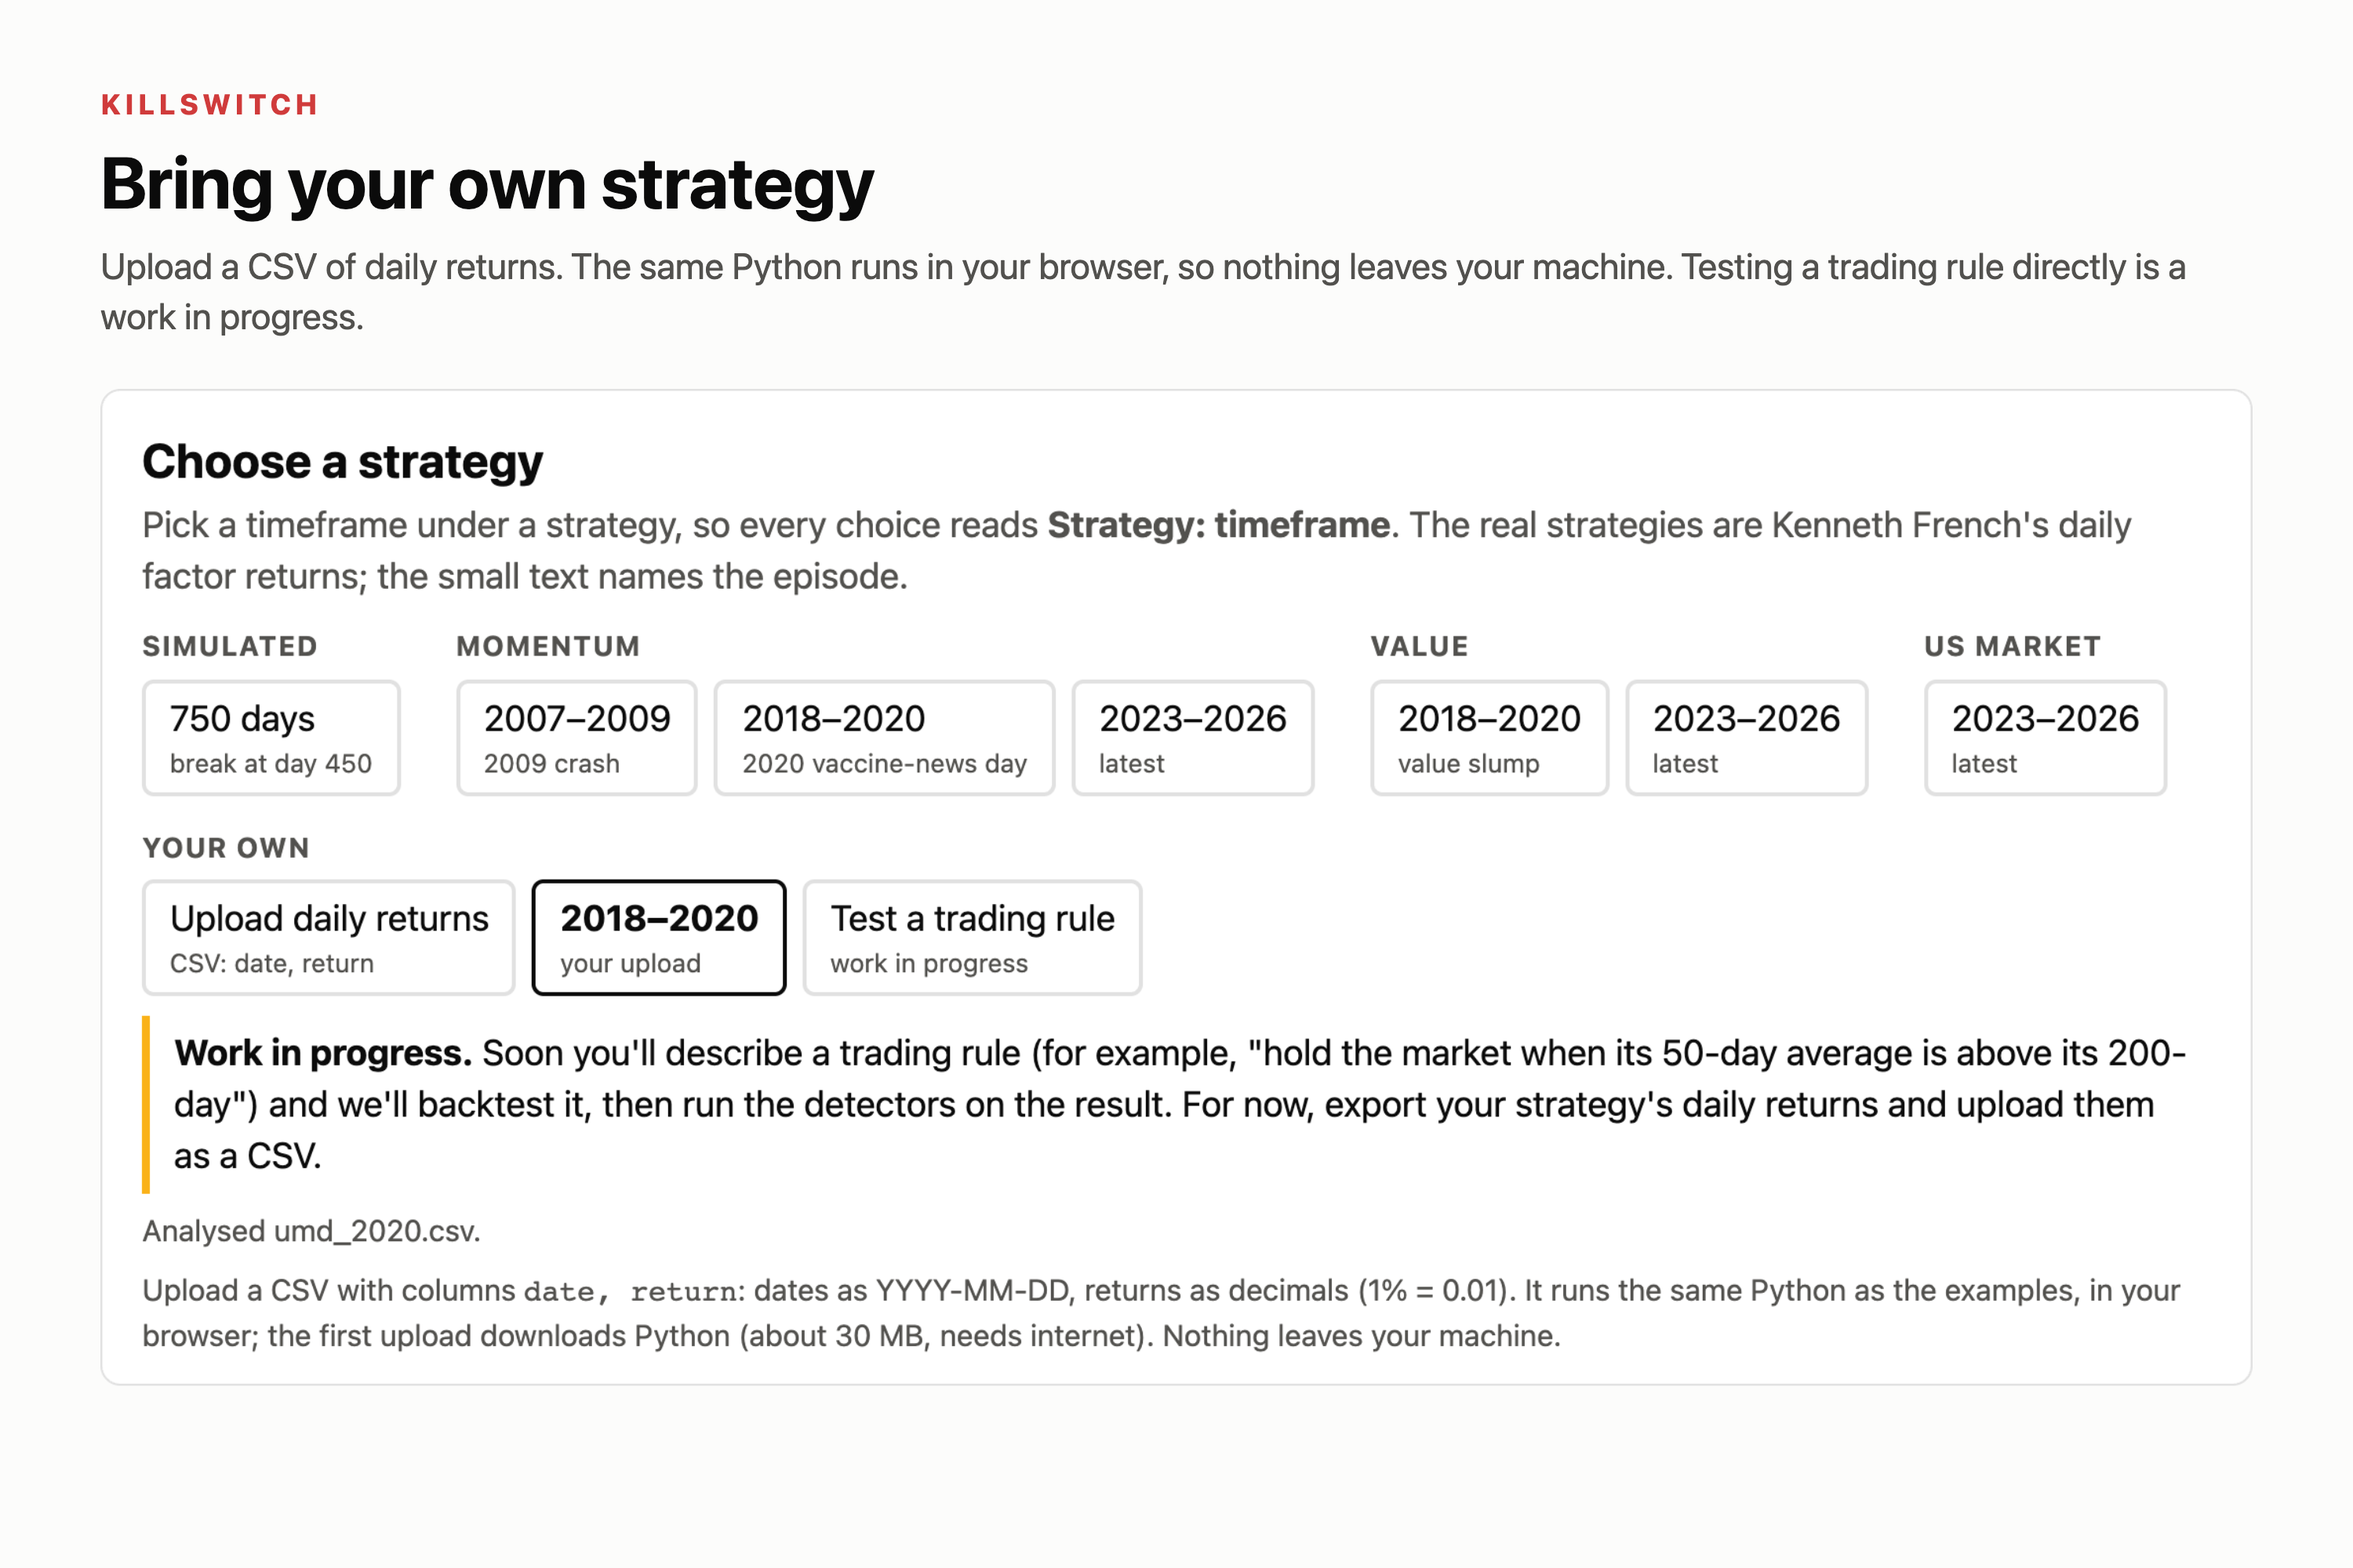
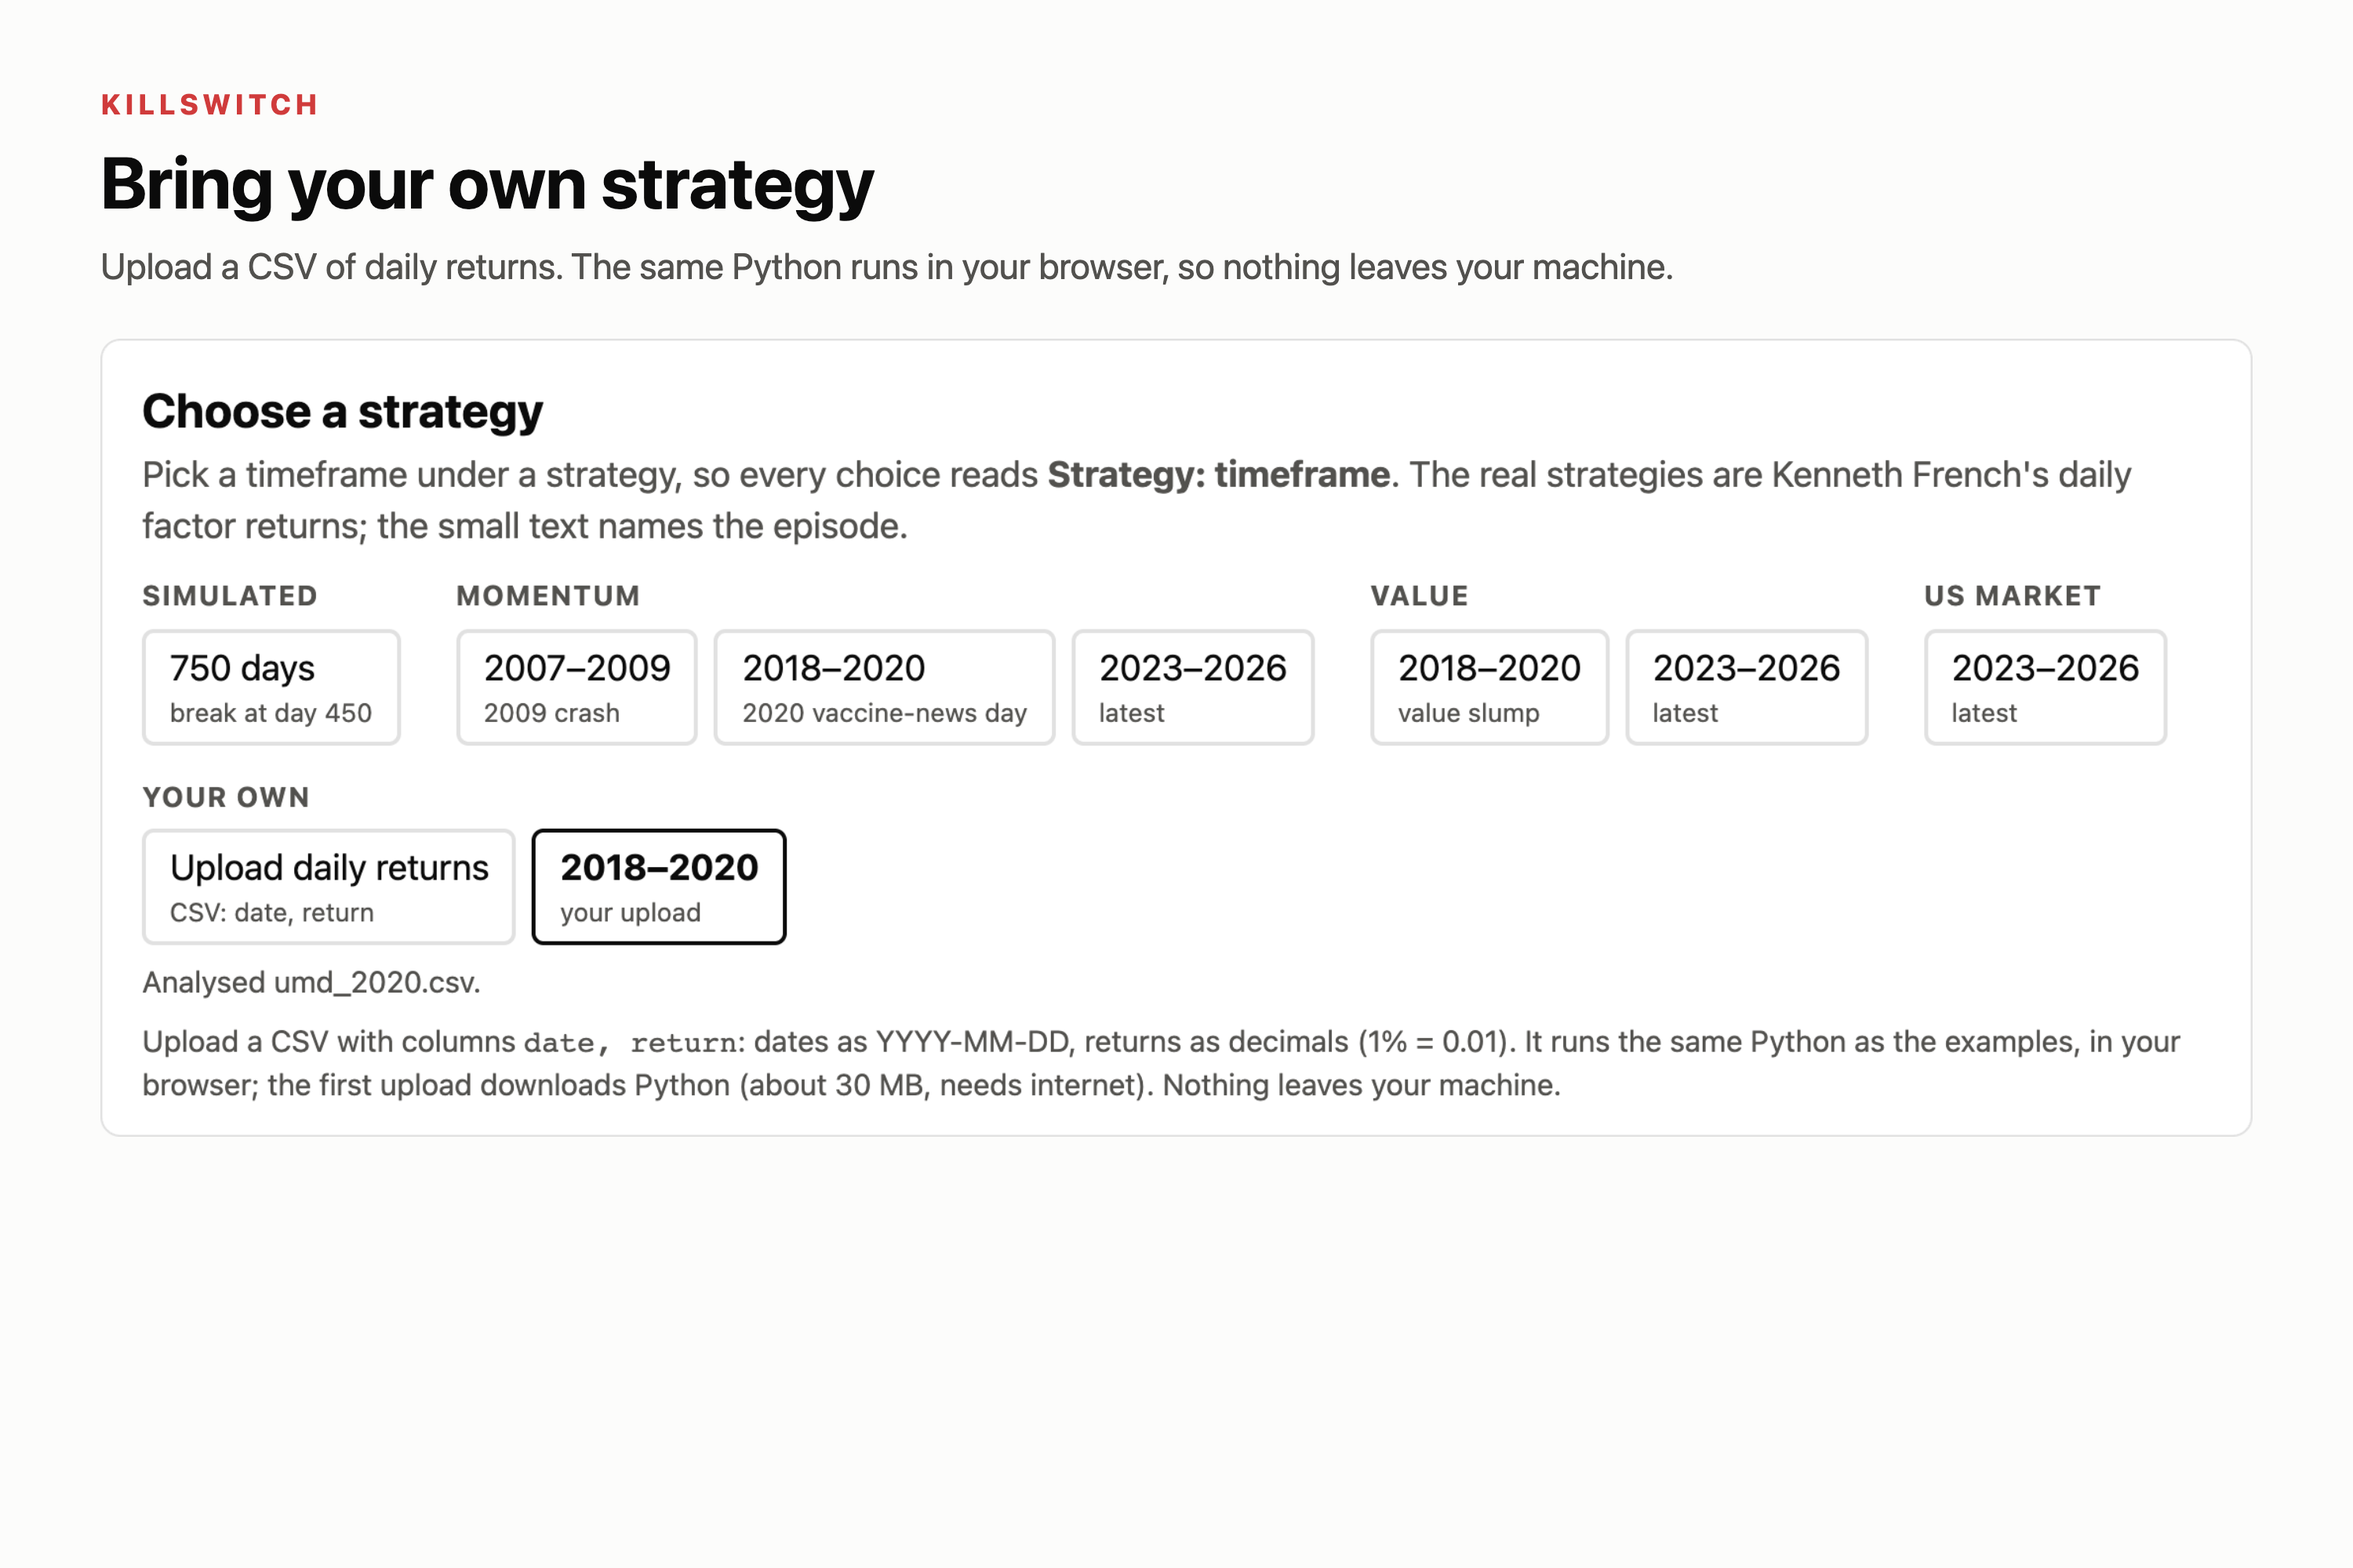
Remove the work-in-progress trading rule button
The detectors only need daily returns, so a rule tester adds no analysis.
Drop the button, its note style, its README mentions, and retake gallery card 07.

diff --git a/web/src/App.jsx b/web/src/App.jsx
@@ -80,13 +80,12 @@ export default function App() {
   );
 }
 
-// The "Your own" picker row: upload daily returns (works), or test a trading rule (work in progress).
+// The "Your own" picker row: upload a CSV of daily returns.
 function OwnStrategy({ uploaded, selected, onSelect, onResult }) {
   const worker = useRef(null);
   const [status, setStatus] = useState(null);
   const [errors, setErrors] = useState([]);
   const [busy, setBusy] = useState(false);
-  const [showWip, setShowWip] = useState(false);
 
   const run = async (file) => {
     if (!file) return;
@@ -120,18 +119,8 @@ function OwnStrategy({ uploaded, selected, onSelect, onResult }) {
             <span className="btn-note">your upload</span>
           </button>
         )}
-        <button aria-expanded={showWip} onClick={() => setShowWip((v) => !v)}>
-          <span>Test a trading rule</span><span className="btn-note">work in progress</span>
-        </button>
       </div>
       <div className="picker-wide">
-        {showWip && (
-          <p className="wip" role="status">
-            <b>Work in progress.</b> Soon you'll describe a trading rule (for example, "hold the market when its 50-day
-            average is above its 200-day") and we'll backtest it, then run the detectors on the result. For now, export
-            your strategy's daily returns and upload them as a CSV.
-          </p>
-        )}
         {status && <p className="note" role="status">{status}</p>}
         {errors.length > 0 && (
           <div className="problems" role="alert">

diff --git a/web/src/styles.css b/web/src/styles.css
@@ -78,5 +78,4 @@ tr.best td { font-weight: 700; }
 .seg .btn[aria-disabled="true"] { opacity: 0.6; pointer-events: none; }
 .seg .btn:focus-within, .seg button:focus-visible { outline: 2px solid var(--text); outline-offset: 2px; }
 .btn-note { font-size: 13px; color: var(--text-2); font-weight: 400; }
-.wip { border-left: 4px solid var(--warning); padding: 6px 12px; margin: 10px 0 0; }
 .visually-hidden { position: absolute; width: 1px; height: 1px; overflow: hidden; clip: rect(0 0 0 0); white-space: nowrap; }

diff --git a/README.md b/README.md
@@ -151,7 +151,7 @@ All three detectors share one vectorised one-day step (`core/detectors.py`). The
   - Momentum's −14.4 % on 2020-11-09 is its worst day of 2020.
   - Value fell 11.0 % in 2018, 8.3 % in 2019 and 33 % in 2020 (calendar-year sums of daily returns).
 - **Datasets with no edge are kept.** Value 2018–2020 and Value latest show "No recommendation" rather than having their windows moved.
-- **Picker.** All strategies sit on one line, each labelled above its timeframe buttons, so every choice reads "Strategy: timeframe". Small text under each button names the episode. A "Your own" line below holds the returns upload and a "Test a trading rule" button, which only shows a work-in-progress note.
+- **Picker.** All strategies sit on one line, each labelled above its timeframe buttons, so every choice reads "Strategy: timeframe". Small text under each button names the episode. A "Your own" line below holds the returns upload.
 - **"US market" means Mkt-RF,** the excess return over T-bills, not the total return.
 - **Default "as of" day.** Day 540 for the simulated demo, so the risk slider visibly flips the recommendation. The last day for real and uploaded data.
 - **CSV rules.**
@@ -181,7 +181,6 @@ All three detectors share one vectorised one-day step (`core/detectors.py`). The
 - **Decision journal.** Nothing records what was recommended and what the trader did.
 - **Bands.** The keep / investigate / reduce bands are a heuristic. Only the kill line T is tuned.
 - **Offline uploads.** Uploading needs internet the first time, to download Pyodide. Vendoring Pyodide into the build would fix this, at about 30 MB.
-- **Trading rules.** The "Test a trading rule" button is a placeholder: describing a rule and backtesting it is not built.
 - **Other upload formats.** There is no upload of prices, equity curves or trade logs. Only daily returns are accepted.
 
 ## Review notes
